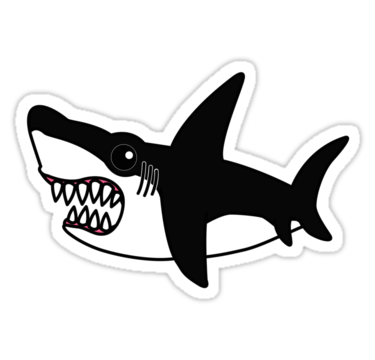
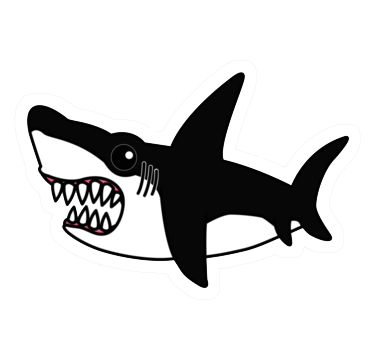
Personajes en diversas posiciones, escenario

diff --git a/Proyecto_Final_v1.0/src/proyecto_final_v1/pkg0/PaneOrganizer2.java b/Proyecto_Final_v1.0/src/proyecto_final_v1/pkg0/PaneOrganizer2.java
@@ -49,6 +49,8 @@ public class PaneOrganizer2 {
     private Pane _white;
     private Pane _black;
     private Pane _pira;
+    private ImageView im2;
+    private Pane _im;
 
  public PaneOrganizer2(){
         _root = new Pane();
@@ -164,22 +166,39 @@ public class PaneOrganizer2 {
         _black = new Pane();
         _pira = new Pane();
         
+        
+         Image image = new Image("file:oce.png");
+        im2 = new ImageView();
+        im2.setImage(image);
+        im2.setFitWidth(1000);
+        im2.setFitHeight(800);
+        
+        
         Buceador b = new Buceador();
         sharkWhite w = new sharkWhite();
         sharkBlack k = new sharkBlack();
         piranha p = new piranha();
         
         _bu.getChildren().add(b.getBu());
-        _white.getChildren().add(w.getIm());
-        _black.getChildren().add(k.getIm());
-        _pira.getChildren().add(p.getIm());
-       
+        _white.getChildren().addAll(w.getIm(),w.getIm2(),w.getWord());
+        _black.getChildren().addAll(k.getIm(),k.getIm2(),k.getWord());
+        _pira.getChildren().addAll(p.getIm(),p.getIm2(),p.getWord());
+        _im = new Pane();
+        _im.getChildren().add(im2);
+        //------------------
+        
+        
+        
+      // _root.getChildren().addAll(_im,_bu,_white,_black,_pira);
+        
+        //-------------------------
+        
         actualizarVentana();
         Button btn4 = new Button("Salir");
         btn4.setLayoutX(890);
         btn4.setLayoutY(690);
         btn4.setFont(Font.font(null, FontWeight.BOLD, 25));
-        _root.getChildren().addAll(_bu,_white,_black,_pira,btn4);
+        _root.getChildren().addAll(_im,_bu,_white,_black,_pira,btn4);
         btn4.setOnAction(new ClickHandler4());
     }
     

diff --git a/Proyecto_Final_v1.0/src/proyecto_final_v1/pkg0/sharkWhite.java b/Proyecto_Final_v1.0/src/proyecto_final_v1/pkg0/sharkWhite.java
@@ -20,7 +20,7 @@ import javafx.util.Duration;
  */
 public class sharkWhite extends Atacante {
 
-     private ImageView im;
+    private ImageView im;
     private ImageView im2;
     private Label word;
     private int n ;
@@ -30,7 +30,7 @@ public class sharkWhite extends Atacante {
     public sharkWhite(){
         
     n =(int)(Math.random()*4+1); //indica la posibilidad del nivel a salir;    
-    Image image = new Image("file:tiburon.png");
+    Image image = new Image("file:tiburon45.png");
          im = new ImageView();
          im.setImage(image);
          im.setFitWidth(300);
@@ -53,7 +53,7 @@ public class sharkWhite extends Atacante {
         word.setLayoutY(fila()+130);
         word.setTextFill(Color.WHITE);
         word.setFont(Font.font("Comic San MS", 20));
-         
+    
          mover(im);
        
     }
@@ -197,9 +197,8 @@ public class sharkWhite extends Atacante {
       
         }
         
-        //----------Recordar girar la imagen-----------
          else if (fila()==500){
-       TranslateTransition tt = new TranslateTransition(Duration.millis(10000), im);
+       TranslateTransition tt = new TranslateTransition(Duration.millis(10000), sharkWhite.this.im);
          //Duration tiempo en que se translada
          
         tt.setByX(-600f); //Para que se mueva de un lado a otro
@@ -233,7 +232,7 @@ public class sharkWhite extends Atacante {
 
     @Override
     public int fila() {
-      n=1;
+     
         if (n==1){
             n1=0;
         } else if (n==2){
@@ -270,6 +269,5 @@ public class sharkWhite extends Atacante {
     public void setWord(Label word) {
         this.word = word;
     }
-    
     
 }

diff --git a/Proyecto_Final_v1.0/src/proyecto_final_v1/pkg0/PaneOrganizer.java b/Proyecto_Final_v1.0/src/proyecto_final_v1/pkg0/PaneOrganizer.java
@@ -5,6 +5,8 @@
  */
 package proyecto_final_v1.pkg0;
 
+import javafx.scene.image.Image;
+import javafx.scene.image.ImageView;
 import javafx.scene.layout.Pane;
 
 /**
@@ -17,15 +19,26 @@ public class PaneOrganizer {
     private Pane _white;
     private Pane _black;
     private Pane _pira;
+    private Pane _im;
     
+    private ImageView _fond;
+    private ImageView im;
     
     public PaneOrganizer(){
         
-         _root = new Pane();
+        _root = new Pane();
         _bu = new Pane();
         _white = new Pane();
         _black = new Pane();
         _pira = new Pane();
+        _im = new Pane();
+        
+        Image image = new Image("file:oce.png");
+        im = new ImageView();
+        im.setImage(image);
+        im.setFitWidth(1000);
+        im.setFitHeight(800);
+        
         
         Buceador b = new Buceador();
         sharkWhite w = new sharkWhite();
@@ -33,10 +46,12 @@ public class PaneOrganizer {
         piranha p = new piranha();
         
         _bu.getChildren().add(b.getBu());
-        _white.getChildren().add(w.getIm());
-        _black.getChildren().add(k.getIm());
-        _pira.getChildren().add(p.getIm());
-       _root.getChildren().addAll(_bu,_white,_black,_pira);
+        _white.getChildren().addAll(w.getIm(),w.getIm2(),w.getWord());
+        _black.getChildren().addAll(k.getIm(),k.getIm2(),k.getWord());
+        _pira.getChildren().addAll(p.getIm(),p.getIm2(),p.getWord());
+        
+        _im.getChildren().add(im);
+       _root.getChildren().addAll(_im,_bu,_white,_black,_pira);
 }
 
     public Pane getRoot() {

diff --git a/Proyecto_Final_v1.0/src/proyecto_final_v1/pkg0/sharkBlack.java b/Proyecto_Final_v1.0/src/proyecto_final_v1/pkg0/sharkBlack.java
@@ -20,7 +20,7 @@ import javafx.util.Duration;
  */
 public class sharkBlack extends Atacante {
 
-      private ImageView im;
+    private ImageView im;
     private ImageView im2;
     private Label word;
     private int n ;

diff --git a/Proyecto_Final_v1.0/src/proyecto_final_v1/pkg0/piranha.java b/Proyecto_Final_v1.0/src/proyecto_final_v1/pkg0/piranha.java
@@ -212,4 +212,3 @@ public class piranha extends Atacante {
         this.im2 = im2;
     }
 }
-
